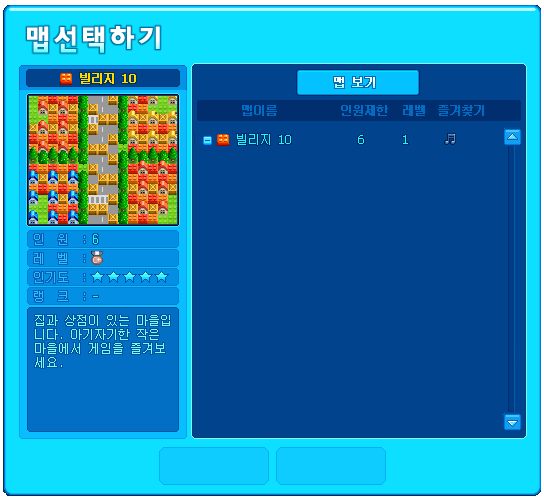
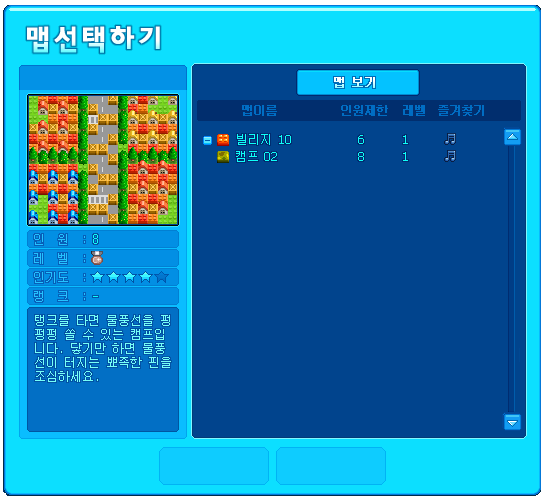
박성우 : 맵선택 업데이트

diff --git a/Dx_Crazyteam_Project/Contents/PlayLobby.h b/Dx_Crazyteam_Project/Contents/PlayLobby.h
@@ -41,8 +41,10 @@ private:
 	void RoomBegin();
 	void CharacterBegin();
 	void StartBegin();
-	void MapSelectBegin();
+	void MapSelectButtonBegin();
 	void LobbyPlayerBegin();
+	void MapSelectBegin();
+
 
 	UImage* PlayLobbyUI = nullptr;
 	UImage* GameStart = nullptr;
@@ -92,6 +94,20 @@ private:
 	UImage* Room6 = nullptr;
 	UImage* Room7 = nullptr;
 	
+	//MapSelect
+	UImage* MapSelect = nullptr;
+	UImage* MapSelectVName = nullptr;
+	UImage* MapSelectVTitle = nullptr;
+	UImage* MapSelectCTitle = nullptr;
+	UImage* MapSelectVPick = nullptr;
+	UImage* MapSelectCName = nullptr;
+	UImage* MapSelectCPick = nullptr;
+	UImage* MapSelectCMinimap = nullptr;
+	UImage* MapSelectVinfo = nullptr;
+	UImage* MapSelectCinfo = nullptr;
+	UImage* EnterButton = nullptr;
+	UImage* CancelButton = nullptr;
+
 	ACAGameMode* Teamtyp = nullptr;
 
 
@@ -120,6 +136,8 @@ private:
 	bool RoomSwitch= false;
 	int  PlayerCount = 0;
 	int TestCount = 0;
+
+	bool VillagePick = true;
 
 private:
 	int MySessionToken = -1;
